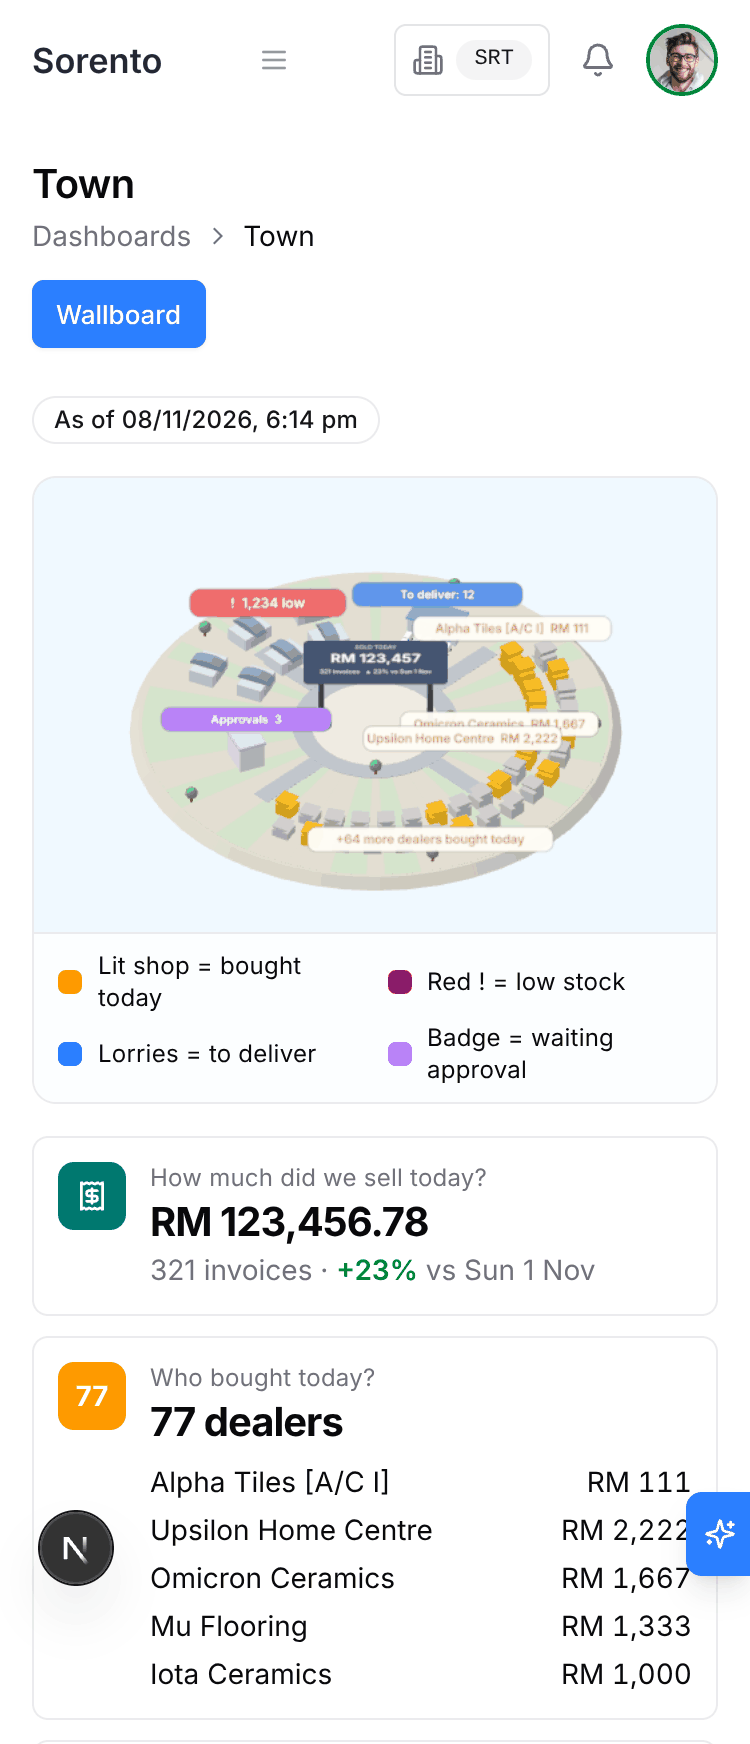
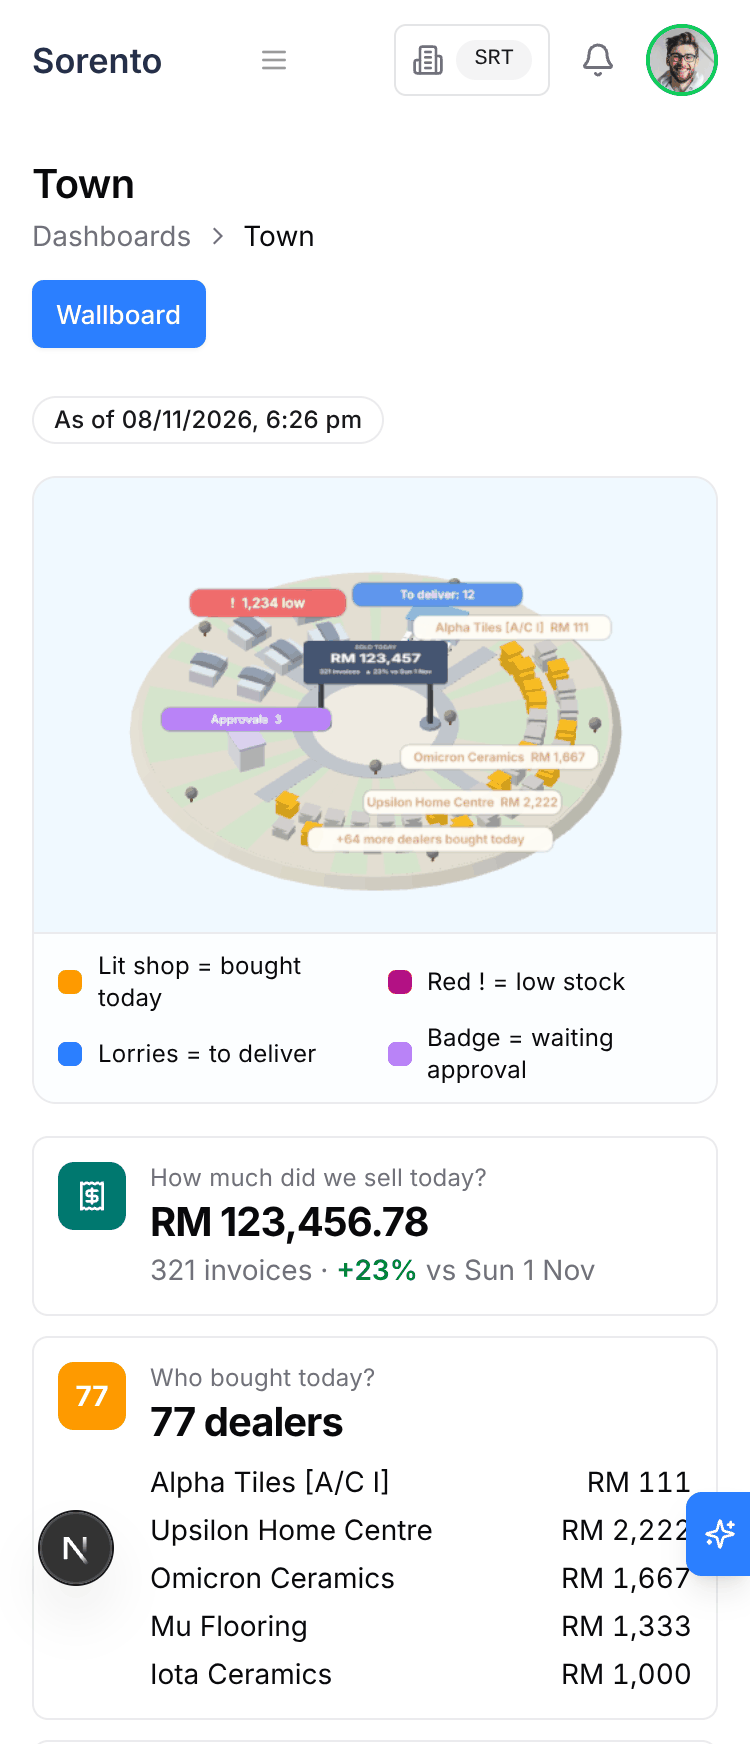
SORENTO-TOWN: final masked browser evidence (stacked tags) [skip ci]
Claude-Session: https://claude.ai/code/session_01GHUZsSPAJiT3pnEUsA3Y2W

diff --git a/documentation/plans/dashboard/evidence/README.md b/documentation/plans/dashboard/evidence/README.md
@@ -54,24 +54,22 @@ Defects:
    `aria-describedby={undefined}` for DialogContent.
 4. The Sheet close icon button is 16x16 px at 375.
 
-## Final pass (head 0d86b6dcb1, same fictional snapshot: 8 lit shops, 60 stalls)
+## Final pass (head e6cc673215, stacked tags; same fictional snapshot: 8 lit shops, 60 stalls)
 
-The two screenshots above were replaced (same names, fictional data only). Three name tags are drawn now
-(Alpha Tiles, Omicron Ceramics, Upsilon Home Centre).
+The two screenshots above were replaced (same names, fictional data only). Three name tags are drawn (Alpha Tiles,
+Omicron Ceramics, Upsilon Home Centre), stacked in screen space.
 
-- Legend below the canvas at 1280 and 375: PASS.
-- Panels: no console warnings or errors opening all five panels at 1280 and 375: PASS.
-- Sheet close hit area on a coarse pointer (375 touch emulation): 44x44 px, PASS (16x16 with a fine pointer at 1280).
+- Tags, checked on canvas screenshots of the default view and one drag each way at 1280 and 375 (six frames):
+  - No tag covers another tag in any frame: PASS (the earlier Omicron/Upsilon overlap is gone).
+  - No tag is clipped at the canvas edge, and "+64 more dealers bought today" is complete in every frame: PASS.
+    After a drag to the left the "+64" pill is the closest to an edge: 6.5 css px from the right edge at 1280 and
+    2.5 css px at 375 (tight, not clipped).
+  - While the 6 s "Tap any building" hint is still shown at 375 it sits over the top of the Alpha Tiles tag after a
+    quick drag (the hint is a transient overlay, the tag itself is whole).
+- Legend below the canvas at 1280 and 375: PASS. No console warnings or errors opening all five panels: PASS.
+- Sheet close hit area on a coarse pointer (375): 44x44 px, PASS (16x16 with a fine pointer at 1280).
 - Draw calls 16 per frame (limit 100); 0 rendered frames and 0 draws in 4 s idle at both sizes: PASS.
-- Tags, checked on canvas screenshots of the default view and one drag each way at 1280 and 375:
-  - None is clipped at the top edge in any of the six frames: PASS.
-  - Alpha Tiles never overlaps another tag: PASS.
-  - FAIL: "Omicron Ceramics RM 1,667" and "Upsilon Home Centre RM 2,222" still overlap. In the default view and after
-    a drag to the right, the Upsilon tag covers the lower half of the Omicron tag (the Omicron text is cut in half);
-    after a drag to the left it covers the Omicron tag from its first letters on ("Omicro" shows).
-  - After the drag to the left, the "+64 more dealers bought today" tag sits 6 css px from the right edge of the
-    canvas at both sizes (tight, text complete).
-- Fill, measured on the canvas pixels (non-background bounding box, default view, 6 px css inset against the rounded
-  corners): 1280 canvas 582x505 css: 72 percent of the width, 54 percent of the height, margins L 81 / R 81 / T 139 /
-  B 94 css px; 375 canvas 341x228: 72 percent of the width, 70 percent of the height, margins L 47 / R 46 / T 46 /
-  B 21 css px. Smaller than the previous pass (79 percent), nothing clipped by it; the island is centred.
+- Fill (canvas pixels, default view, unchanged from the previous pass): 1280 canvas 582x505 css: 72 percent of the
+  width, 54 percent of the height; 375 canvas 341x228: 72 percent of the width, 70 percent of the height.
+- The 128 to 192 colour palette used to keep the png under 200 KB slightly shifts some hues (the red legend dot
+  looks magenta in the 375 image).
